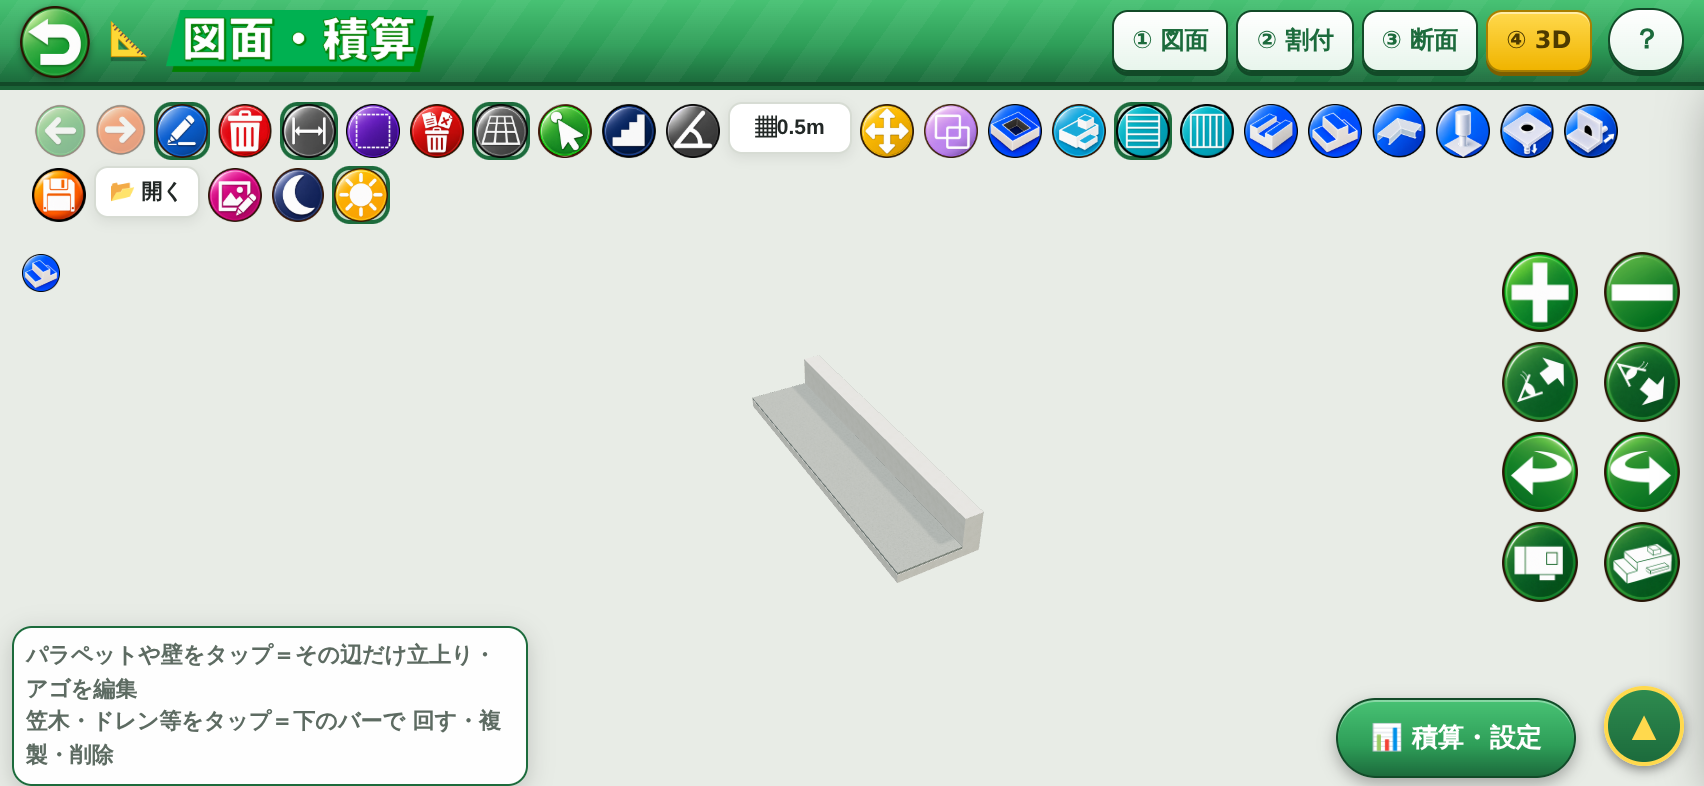
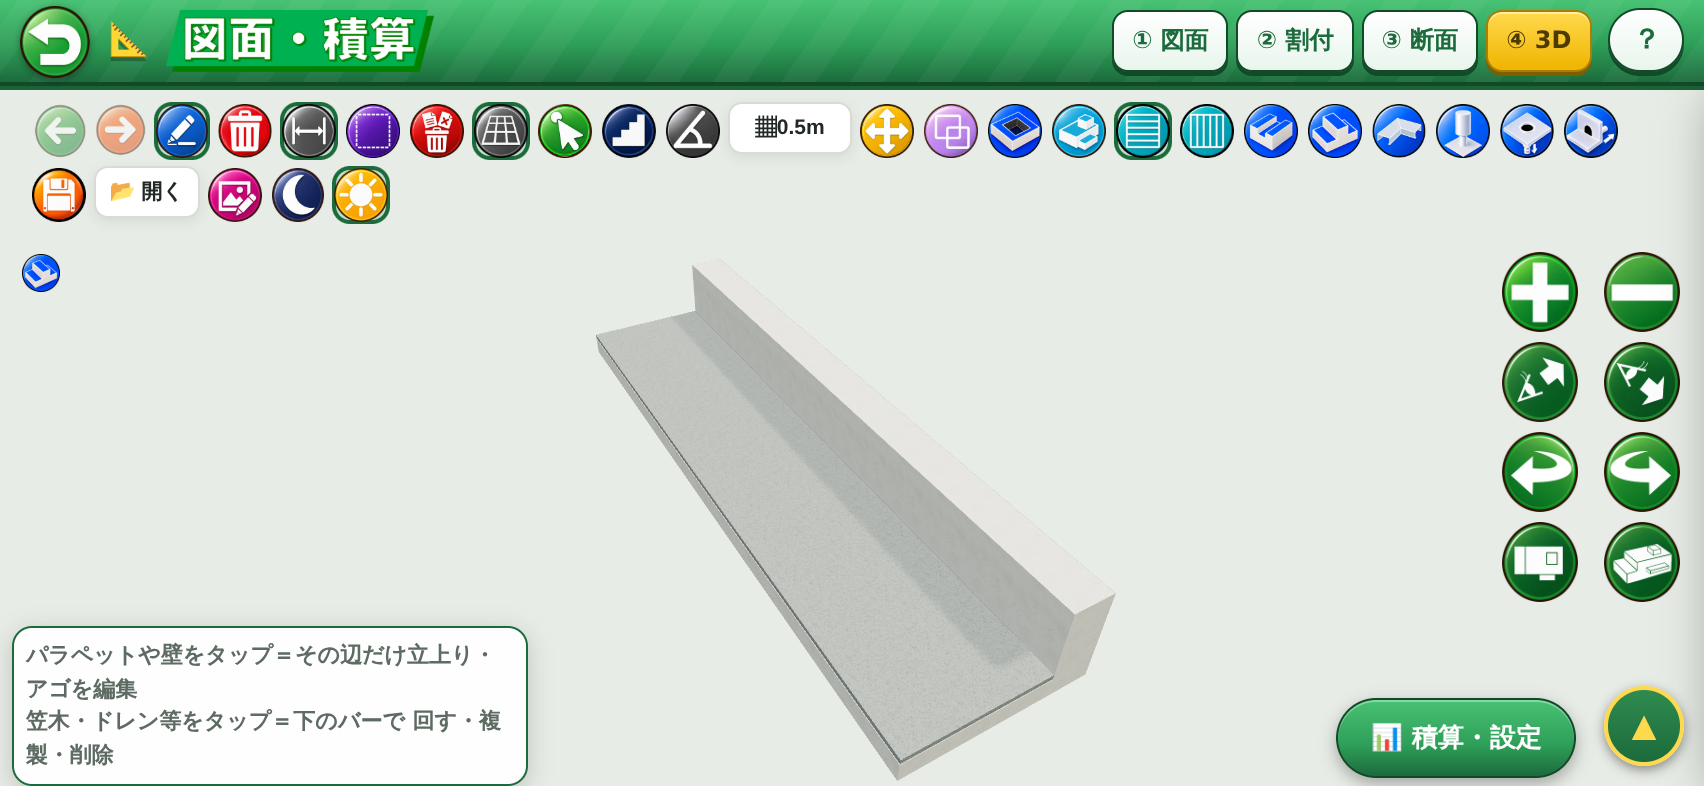
3Dの全体表示を実測方式に（下が見切れるのを修正・版2026-08-21a）
・目安の式（大きさ×1.5）は画角・画面の縦横比・ツールバーの厚みを見ておらず、
  よこ向きで立体の下が画面外に切れていた
・立体の隅8点を実際に画面へ投影し、収まるまで距離を調整する方式に変更
  （nn-d3fit-js／nnD3FitR・nnD3ViewOffset）
・大きさだけでなく中心のズレも直す（背の高い塔屋で上が切れるため）
・距離を変えたあとに中心を測り直す仕上げの1回を追加
・視点ボタン（図面と同じ／斜めから）は角度を入れてから測り直す
・検証 _check/d3fit.js を追加（よこ／たて／PC 各10項目）

Claude-Session: https://claude.ai/code/session_01Y4p27bzwJxic7b8SEgbfxT

Changed region(s): [[0.3421, 0.3359, 0.6532, 1.0]]

diff --git a/zumen_sekisan.html b/zumen_sekisan.html
@@ -2593,7 +2593,11 @@ window.d3Fit=function(){ d3WantFit=true; dirty3d=true; build3D(); };   /* 視点
    ・斜めから＝図面の向きを保ったまま、少し回して起こした3/4アングル。 */
 function d3View(theta, phi){
   d3WantFit=true; dirty3d=true; build3D();      /* 先に全体表示（tx/tz/r を合わせ直す） */
-  if(T){ T.theta=theta; T.phi=phi; T.rev=(T.rev|0)+1; }
+  if(T){ T.theta=theta; T.phi=phi; T.rev=(T.rev|0)+1;
+    /* ★2026-08-21a 向きを変えると画面に映る形も変わるので、角度を入れてから測り直す
+       （先に測って後から回すと、真上から見たときなどに画面外へはみ出す） */
+    if(window.nnD3FitR) nnD3FitR();
+  }
 }
 window.d3ViewPlan=function(){ d3View(Math.PI/2, 0.16); };
 window.d3ViewIso =function(){ d3View(Math.PI/2+0.5, 0.95); };
@@ -2759,7 +2763,9 @@ function init3D(){
     const pr=renderer.getPixelRatio();
     if(el.width!==Math.floor(w*pr)){ renderer.setSize(w,h); camera.aspect=w/h; camera.updateProjectionMatrix(); T.sig=''; }
     const sig=[T.theta,T.phi,T.r,T.tx,T.tz,w,h,T.rev|0].join(',');
-    if(sig!==T.sig){ T.sig=sig; T.draw=2; }        /* 2コマ描くのは保険（1コマだと取りこぼす端末がある） */
+    if(sig!==T.sig){ T.sig=sig; T.draw=2;
+      if(window.nnD3ViewOffset) nnD3ViewOffset();   /* ツールバーのぶん下へ寄せる */
+    }        /* 2コマ描くのは保険（1コマだと取りこぼす端末がある） */
     if(!(T.draw>0))return;
     T.draw--;
     camera.position.set(
@@ -3382,7 +3388,11 @@ function build3D(){
                                    +minZ.toFixed(1)+','+maxZ.toFixed(1)+','+maxY.toFixed(1);
     if(d3WantFit || key!==d3FitKey){
       T.tx=(minX+maxX)/2; T.tz=(minZ+maxZ)/2;
-      T.r=Math.max(maxX-minX, maxZ-minZ, maxY*1.6, 4)*1.5;
+      T.r=Math.max(maxX-minX, maxZ-minZ, maxY*1.6, 4)*1.5;   /* 目安。下で実測して合わせ直す */
+      /* ★2026-08-21a 目安の式（大きさ×1.5）は画角も画面の縦横比もツールバーの厚みも
+         見ていないので、よこ向きのように「横に広くて縦が短い」画面だと下が切れていた。
+         実際に立体を画面へ投影して、はみ出さない距離まで下げる。 */
+      if(window.nnD3FitR) nnD3FitR();
       d3FitKey=key; d3WantFit=false;
     }
   }
@@ -4258,7 +4268,7 @@ nav, nav#nav{justify-content:center !important; padding-left:6px !important; pad
    古いものが出続けることがある。そこで ver.txt（数バイト）だけを
    毎回見に行き、公開版と違っていたら保存分を捨てて1回だけ読み直す。
    ★公開のたびに ver.txt と、下の NN_VER を同じ文字に更新すること。 */
-const NN_VER='2026-08-20b';
+const NN_VER='2026-08-21a';
 /* ============ 表示にかかった時間の記録（原因調査用・2026-07-28） ============
    スマホの実機でどこに時間がかかっているかを数字で出す。
    ・net  ＝ページを要求してから最初の返事が来るまで（通信の待ち）
@@ -9808,6 +9818,111 @@ addEventListener('load',()=>{ addBtn(); setTimeout(addBtn,800); });
    （iOS/Android とも対応。使えない環境では黙って何もしない）。 */
 try{ if(navigator.storage&&navigator.storage.persist) navigator.storage.persist().catch(function(){}); }catch(e){}
 </script>
+<script id="nn-d3fit-js">
+/* ============================================================
+   ★2026-08-21a 3Dの「全体表示」を実測方式にした
+   これまでは T.r ＝ 建物の大きさ × 1.5 の目安だけで決めていた。
+   画角（50度）も画面の縦横比もツールバーの厚みも見ていないので、
+   よこ向き（横に広くて縦が短い）だと**下が画面外に切れていた**
+   （実機の写真を画素で数えて確認：いちばん下の行に屋根の画素が1426個あった）。
+   ここでは実際に立体の隅を画面へ投影して、収まるまで距離を下げる。
+   ============================================================ */
+(function(){
+"use strict";
+/* ツールバーが覆っている高さ（3Dの絵はその下に中心が来るようにする） */
+function topCover(){
+  try{
+    if(typeof T==='undefined'||!T||!T.renderer) return 0;
+    if(document.body.classList.contains('nnsplit2')) return 0;   /* 2画面のときは覆わない */
+    const el=T.renderer.domElement, tb=document.getElementById('toolbar');
+    if(!tb || getComputedStyle(tb).display==='none') return 0;
+    const a=tb.getBoundingClientRect(), b=el.getBoundingClientRect();
+    if(!a.height) return 0;
+    return Math.max(0, Math.min(b.height*0.45, a.bottom-b.top+6));
+  }catch(_){ return 0; }
+}
+/* 絵の中心をツールバーの下へずらす（setViewOffset＝カメラの写す範囲をずらす） */
+window.nnD3ViewOffset=function(){
+  try{
+    if(typeof T==='undefined'||!T||!T.camera||!T.renderer) return;
+    const el=T.renderer.domElement, W=el.clientWidth||1, H=el.clientHeight||1;
+    const top=Math.round(topCover());
+    const c=T.camera;
+    /* T.voX / T.voY ＝ 絵を右へ／下へ何px ずらすか（全体表示のときに実測して入れる）。
+       まだ測っていないときは、ツールバーの厚みの半分だけ下げる。 */
+    const sx=(typeof T.voX==='number')?T.voX:0;
+    const sy=(typeof T.voY==='number')?T.voY:(top/2);
+    if((Math.abs(sx)>1||Math.abs(sy)>1) && c.setViewOffset) c.setViewOffset(W, H, -sx, -sy, W, H);
+    else if(c.clearViewOffset) c.clearViewOffset();
+    c.aspect=W/H; c.updateProjectionMatrix();
+  }catch(_){}
+};
+/* 立体が画面に収まるまで距離を下げる（投影して実測・4回で収束） */
+window.nnD3FitR=function(){
+  try{
+    if(typeof T==='undefined'||!T||!T.camera||!T.renderer||!T.group) return;
+    if(typeof THREE==='undefined') return;
+    const el=T.renderer.domElement, W=el.clientWidth||0, H=el.clientHeight||0;
+    if(W<40||H<40) return;
+    const box=new THREE.Box3().setFromObject(T.group);
+    if(box.isEmpty()||!isFinite(box.min.x)) return;
+    const cs=[];
+    for(let i=0;i<8;i++) cs.push(new THREE.Vector3(
+      (i&1)?box.max.x:box.min.x, (i&2)?box.max.y:box.min.y, (i&4)?box.max.z:box.min.z));
+    const top=Math.round(topCover());
+    const useW=Math.max(40, W-16), useH=Math.max(40, H-top-10);   /* まわりに余白を残す */
+    const wantX=W/2, wantY=top+(H-top)/2;   /* 絵の真ん中を持ってきたい場所 */
+    const c=T.camera;
+    T.voX=0; T.voY=0;
+    for(let k=0;k<6;k++){
+      nnD3ViewOffset();
+      c.position.set(T.tx + T.r*Math.sin(T.phi)*Math.cos(T.theta),
+                     0.4 + T.r*Math.cos(T.phi),
+                     T.tz + T.r*Math.sin(T.phi)*Math.sin(T.theta));
+      c.lookAt(T.tx,0.4,T.tz); c.updateMatrixWorld();
+      let x0=1e9,x1=-1e9,y0=1e9,y1=-1e9;
+      for(const v of cs){
+        const q=v.clone().project(c);
+        const sx=(q.x*0.5+0.5)*W, sy=(-q.y*0.5+0.5)*H;
+        if(sx<x0)x0=sx; if(sx>x1)x1=sx; if(sy<y0)y0=sy; if(sy>y1)y1=sy;
+      }
+      /* ★見ているのは高さ0.4mの点なので、塔屋のように背の高い建物は絵が上へ寄る。
+         大きさを合わせるだけでは上が切れる。**中心のズレも一緒に直す**。 */
+      T.voX += wantX-(x0+x1)/2;
+      T.voY += wantY-(y0+y1)/2;
+      const pw=Math.max(1,x1-x0), ph=Math.max(1,y1-y0);
+      const need=Math.max(pw/useW, ph/useH);
+      if(k>0 && need>0.95 && need<1.02) break;
+      T.r=Math.max(0.6, Math.min(2500, T.r*need*1.04));
+    }
+    /* ★最後にもう一度「中心のズレ」だけ測って直す。
+       距離(T.r)を変えたあとの位置で測り直さないと、直前に測ったズレが古くなって
+       そのぶん画面の外に出る（実測で下が23pxはみ出した）。 */
+    nnD3ViewOffset();
+    c.position.set(T.tx + T.r*Math.sin(T.phi)*Math.cos(T.theta),
+                   0.4 + T.r*Math.cos(T.phi),
+                   T.tz + T.r*Math.sin(T.phi)*Math.sin(T.theta));
+    c.lookAt(T.tx,0.4,T.tz); c.updateMatrixWorld();
+    { let x0=1e9,x1=-1e9,y0=1e9,y1=-1e9;
+      for(const v of cs){
+        const q=v.clone().project(c);
+        const sx=(q.x*0.5+0.5)*W, sy=(-q.y*0.5+0.5)*H;
+        if(sx<x0)x0=sx; if(sx>x1)x1=sx; if(sy<y0)y0=sy; if(sy>y1)y1=sy;
+      }
+      T.voX += wantX-(x0+x1)/2;
+      T.voY += wantY-(y0+y1)/2;
+    }
+    nnD3ViewOffset();
+    T.sig=''; T.rev=(T.rev|0)+1;
+  }catch(_){}
+};
+/* 画面の向きが変わったら合わせ直す */
+addEventListener('orientationchange',()=>setTimeout(()=>{
+  try{ if(typeof tab!=='undefined'&&tab==='d3'){ window.d3WantFit=true; nnD3FitR(); } }catch(_){}
+},350));
+})();
+</script>
+
 </body>
 </html>
 

diff --git a/_check/d3fit.js b/_check/d3fit.js
@@ -1,0 +1,78 @@
+/* ★2026-08-21a 3Dの「全体表示」が画面からはみ出さないか（§149）
+   使い方： node _check/d3fit.js            （よこ／たて／PC の3通り）
+   前提： python3 -m http.server 8899 --directory <このフォルダ> を立てておく
+   見ているもの：立体の隅8点を実際に画面へ投影し、キャンバスの外に出ていないか。
+   ★目安の式（大きさ×1.5）では画角も縦横比もツールバーの厚みも見ていないので
+     よこ向きで下が切れていた。ここでは実測で確かめる。 */
+const {chromium}=require('/opt/node22/lib/node_modules/playwright');
+const URL='http://localhost:8899/zumen_sekisan.html';
+let ng=0;
+const ok=(c,m)=>{ console.log((c?'  ○ ':'  ★NG ')+m); if(!c)ng++; };
+
+const MEASURE=()=>{
+  if(typeof T==='undefined'||!T||!T.renderer) return {err:'noT'};
+  const el=T.renderer.domElement, W=el.clientWidth, H=el.clientHeight;
+  const box=new THREE.Box3().setFromObject(T.group);
+  if(box.isEmpty()) return {err:'empty'};
+  let x0=1e9,x1=-1e9,y0=1e9,y1=-1e9;
+  for(let i=0;i<8;i++){
+    const v=new THREE.Vector3((i&1)?box.max.x:box.min.x,(i&2)?box.max.y:box.min.y,(i&4)?box.max.z:box.min.z);
+    const q=v.project(T.camera);
+    const sx=(q.x*0.5+0.5)*W, sy=(-q.y*0.5+0.5)*H;
+    x0=Math.min(x0,sx);x1=Math.max(x1,sx);y0=Math.min(y0,sy);y1=Math.max(y1,sy);
+  }
+  const tb=document.getElementById('toolbar'), cr=el.getBoundingClientRect();
+  const tbB=(tb&&getComputedStyle(tb).display!=='none')?(tb.getBoundingClientRect().bottom-cr.top):0;
+  return {W,H,r:+T.r.toFixed(1),
+    over:{left:Math.round(Math.max(0,-x0)),right:Math.round(Math.max(0,x1-W)),
+          top:Math.round(Math.max(0,-y0)),bottom:Math.round(Math.max(0,y1-H))},
+    fill:+(((x1-x0)*(y1-y0))/(W*H)).toFixed(3),
+    underBar:Math.round(Math.max(0,tbB-y0))};
+};
+
+(async()=>{
+const b=await chromium.launch({executablePath:'/opt/pw-browsers/chromium-1194/chrome-linux/chrome',
+  args:['--use-gl=angle','--use-angle=swiftshader','--enable-unsafe-swiftshader']});
+for(const [nm,vp] of [['よこ',{width:852,height:393}],['たて',{width:393,height:852}],['PC',{width:1600,height:900}]]){
+  console.log('\n== '+nm+' ==');
+  const mob=nm!=='PC';
+  const ctx=await b.newContext({viewport:vp,deviceScaleFactor:mob?2:1,isMobile:mob,hasTouch:mob});
+  if(mob) await ctx.addInitScript(()=>{Object.defineProperty(screen,'width',{get:()=>393});
+                                       Object.defineProperty(screen,'height',{get:()=>852});});
+  const p=await ctx.newPage(); p.on('dialog',d=>d.accept());
+  const errs=[]; p.on('pageerror',e=>errs.push(e.message));
+  await p.goto(URL); await p.waitForTimeout(1400);
+  await p.evaluate(()=>{const x=document.getElementById('tl_sample'); if(x)x.click();});
+  await p.waitForTimeout(700);
+  await p.evaluate(()=>setTab('d3')); await p.waitForTimeout(4000);
+
+  const a=await p.evaluate(MEASURE);
+  ok(!a.err,'3Dが立ち上がる '+JSON.stringify(a.err||''));
+  if(!a.err){
+    ok(a.over.bottom===0,'下がはみ出さない ('+a.over.bottom+'px)');
+    ok(a.over.top===0,  '上がはみ出さない ('+a.over.top+'px)');
+    ok(a.over.left===0&&a.over.right===0,'左右がはみ出さない ('+a.over.left+'/'+a.over.right+')');
+    ok(a.underBar<=2,'ツールバーの下に来ている ('+a.underBar+'px)');
+    ok(a.fill>=0.05,'小さすぎない（画面の'+Math.round(a.fill*100)+'%）');
+  }
+  /* 視点ボタン（図面と同じ／斜めから）でもはみ出さない */
+  for(const [bn,fn] of [['図面と同じ','d3ViewPlan'],['斜めから','d3ViewIso']]){
+    await p.evaluate(f=>window[f](),fn); await p.waitForTimeout(900);
+    const m=await p.evaluate(MEASURE);
+    ok(!m.err && m.over.top===0&&m.over.bottom===0&&m.over.left===0&&m.over.right===0,
+       bn+'でもはみ出さない '+JSON.stringify(m.over||m.err));
+  }
+  /* ＋ボタンで寄れる（合わせ直しが手動操作を邪魔しない） */
+  /* ★＋−は §39 で「タップと長押し」に作り替えたので inline onclick が無い。
+     el.click() では動かない。本物のマウス／指で押すこと。 */
+  const before=await p.evaluate(()=>+T.r.toFixed(2));
+  await p.click('#d3_zin'); await p.waitForTimeout(400);
+  const after=await p.evaluate(()=>+T.r.toFixed(2));
+  ok(after<before,'＋ボタンで寄れる ('+before+'→'+after+')');
+  ok(errs.length===0,'JSエラーなし '+errs.slice(0,2).join(' / '));
+  await ctx.close();
+}
+await b.close();
+console.log(ng?('\n★NG '+ng+'件'):'\n全部○');
+process.exit(ng?1:0);
+})();

diff --git a/index.html b/index.html
@@ -389,7 +389,7 @@ nav, nav#nav{overflow:visible; padding-top:2px;}
 
 <!-- 版の表示：スマホに届いている中身がどれかを、お互いに確認するための小さな印。
      不要になったらこの1行と #nnver の指定を消してください。 -->
-<div id="nnver">v2026-08-20 b</div>
+<div id="nnver">v2026-08-21 a</div>
 <script>
 /* ============ 実機の計測結果を表示（原因調査用・2026-07-28） ============
    数字の意味（単位はミリ秒）
@@ -730,7 +730,7 @@ nav, nav#nav{justify-content:center !important; padding-left:6px !important; pad
    古いものが出続けることがある。そこで ver.txt（数バイト）だけを
    毎回見に行き、公開版と違っていたら保存分を捨てて1回だけ読み直す。
    ★公開のたびに ver.txt と、下の NN_VER を同じ文字に更新すること。 */
-const NN_VER='2026-08-20b';
+const NN_VER='2026-08-21a';
 /* ============ 表示にかかった時間の記録（原因調査用・2026-07-28） ============
    スマホの実機でどこに時間がかかっているかを数字で出す。
    ・net  ＝ページを要求してから最初の返事が来るまで（通信の待ち）

diff --git a/camera.html b/camera.html
@@ -1226,7 +1226,7 @@ nav, nav#nav{justify-content:center !important; padding-left:6px !important; pad
    古いものが出続けることがある。そこで ver.txt（数バイト）だけを
    毎回見に行き、公開版と違っていたら保存分を捨てて1回だけ読み直す。
    ★公開のたびに ver.txt と、下の NN_VER を同じ文字に更新すること。 */
-const NN_VER='2026-08-20b';
+const NN_VER='2026-08-21a';
 /* ============ 表示にかかった時間の記録（原因調査用・2026-07-28） ============
    スマホの実機でどこに時間がかかっているかを数字で出す。
    ・net  ＝ページを要求してから最初の返事が来るまで（通信の待ち）

diff --git a/genba_map_v36.html b/genba_map_v36.html
@@ -4911,7 +4911,7 @@ nav, nav#nav{justify-content:center !important; padding-left:6px !important; pad
    古いものが出続けることがある。そこで ver.txt（数バイト）だけを
    毎回見に行き、公開版と違っていたら保存分を捨てて1回だけ読み直す。
    ★公開のたびに ver.txt と、下の NN_VER を同じ文字に更新すること。 */
-const NN_VER='2026-08-20b';
+const NN_VER='2026-08-21a';
 /* ============ 表示にかかった時間の記録（原因調査用・2026-07-28） ============
    スマホの実機でどこに時間がかかっているかを数字で出す。
    ・net  ＝ページを要求してから最初の返事が来るまで（通信の待ち）

diff --git a/hacchu.html b/hacchu.html
@@ -1036,7 +1036,7 @@ nav, nav#nav{justify-content:center !important; padding-left:6px !important; pad
    古いものが出続けることがある。そこで ver.txt（数バイト）だけを
    毎回見に行き、公開版と違っていたら保存分を捨てて1回だけ読み直す。
    ★公開のたびに ver.txt と、下の NN_VER を同じ文字に更新すること。 */
-const NN_VER='2026-08-20b';
+const NN_VER='2026-08-21a';
 /* ============ 表示にかかった時間の記録（原因調査用・2026-07-28） ============
    スマホの実機でどこに時間がかかっているかを数字で出す。
    ・net  ＝ページを要求してから最初の返事が来るまで（通信の待ち）

diff --git a/kirokucho_demo.html b/kirokucho_demo.html
@@ -4477,7 +4477,7 @@ nav, nav#nav{justify-content:center !important; padding-left:6px !important; pad
    古いものが出続けることがある。そこで ver.txt（数バイト）だけを
    毎回見に行き、公開版と違っていたら保存分を捨てて1回だけ読み直す。
    ★公開のたびに ver.txt と、下の NN_VER を同じ文字に更新すること。 */
-const NN_VER='2026-08-20b';
+const NN_VER='2026-08-21a';
 /* ============ 表示にかかった時間の記録（原因調査用・2026-07-28） ============
    スマホの実機でどこに時間がかかっているかを数字で出す。
    ・net  ＝ページを要求してから最初の返事が来るまで（通信の待ち）

diff --git a/kokkosho.html b/kokkosho.html
@@ -2389,7 +2389,7 @@ nav, nav#nav{justify-content:center !important; padding-left:6px !important; pad
    古いものが出続けることがある。そこで ver.txt（数バイト）だけを
    毎回見に行き、公開版と違っていたら保存分を捨てて1回だけ読み直す。
    ★公開のたびに ver.txt と、下の NN_VER を同じ文字に更新すること。 */
-const NN_VER='2026-08-20b';
+const NN_VER='2026-08-21a';
 /* ============ 表示にかかった時間の記録（原因調査用・2026-07-28） ============
    スマホの実機でどこに時間がかかっているかを数字で出す。
    ・net  ＝ページを要求してから最初の返事が来るまで（通信の待ち）

diff --git a/library.html b/library.html
@@ -1131,7 +1131,7 @@ nav, nav#nav{justify-content:center !important; padding-left:6px !important; pad
    古いものが出続けることがある。そこで ver.txt（数バイト）だけを
    毎回見に行き、公開版と違っていたら保存分を捨てて1回だけ読み直す。
    ★公開のたびに ver.txt と、下の NN_VER を同じ文字に更新すること。 */
-const NN_VER='2026-08-20b';
+const NN_VER='2026-08-21a';
 /* ============ 表示にかかった時間の記録（原因調査用・2026-07-28） ============
    スマホの実機でどこに時間がかかっているかを数字で出す。
    ・net  ＝ページを要求してから最初の返事が来るまで（通信の待ち）

diff --git a/shiyo_toroku.html b/shiyo_toroku.html
@@ -1629,7 +1629,7 @@ nav, nav#nav{justify-content:center !important; padding-left:6px !important; pad
    古いものが出続けることがある。そこで ver.txt（数バイト）だけを
    毎回見に行き、公開版と違っていたら保存分を捨てて1回だけ読み直す。
    ★公開のたびに ver.txt と、下の NN_VER を同じ文字に更新すること。 */
-const NN_VER='2026-08-20b';
+const NN_VER='2026-08-21a';
 /* ============ 表示にかかった時間の記録（原因調査用・2026-07-28） ============
    スマホの実機でどこに時間がかかっているかを数字で出す。
    ・net  ＝ページを要求してから最初の返事が来るまで（通信の待ち）

diff --git a/yougo.html b/yougo.html
@@ -1376,7 +1376,7 @@ nav, nav#nav{justify-content:center !important; padding-left:6px !important; pad
    古いものが出続けることがある。そこで ver.txt（数バイト）だけを
    毎回見に行き、公開版と違っていたら保存分を捨てて1回だけ読み直す。
    ★公開のたびに ver.txt と、下の NN_VER を同じ文字に更新すること。 */
-const NN_VER='2026-08-20b';
+const NN_VER='2026-08-21a';
 /* ============ 表示にかかった時間の記録（原因調査用・2026-07-28） ============
    スマホの実機でどこに時間がかかっているかを数字で出す。
    ・net  ＝ページを要求してから最初の返事が来るまで（通信の待ち）

diff --git a/zairyo_toroku.html b/zairyo_toroku.html
@@ -1515,7 +1515,7 @@ nav, nav#nav{justify-content:center !important; padding-left:6px !important; pad
    古いものが出続けることがある。そこで ver.txt（数バイト）だけを
    毎回見に行き、公開版と違っていたら保存分を捨てて1回だけ読み直す。
    ★公開のたびに ver.txt と、下の NN_VER を同じ文字に更新すること。 */
-const NN_VER='2026-08-20b';
+const NN_VER='2026-08-21a';
 /* ============ 表示にかかった時間の記録（原因調査用・2026-07-28） ============
    スマホの実機でどこに時間がかかっているかを数字で出す。
    ・net  ＝ページを要求してから最初の返事が来るまで（通信の待ち）
